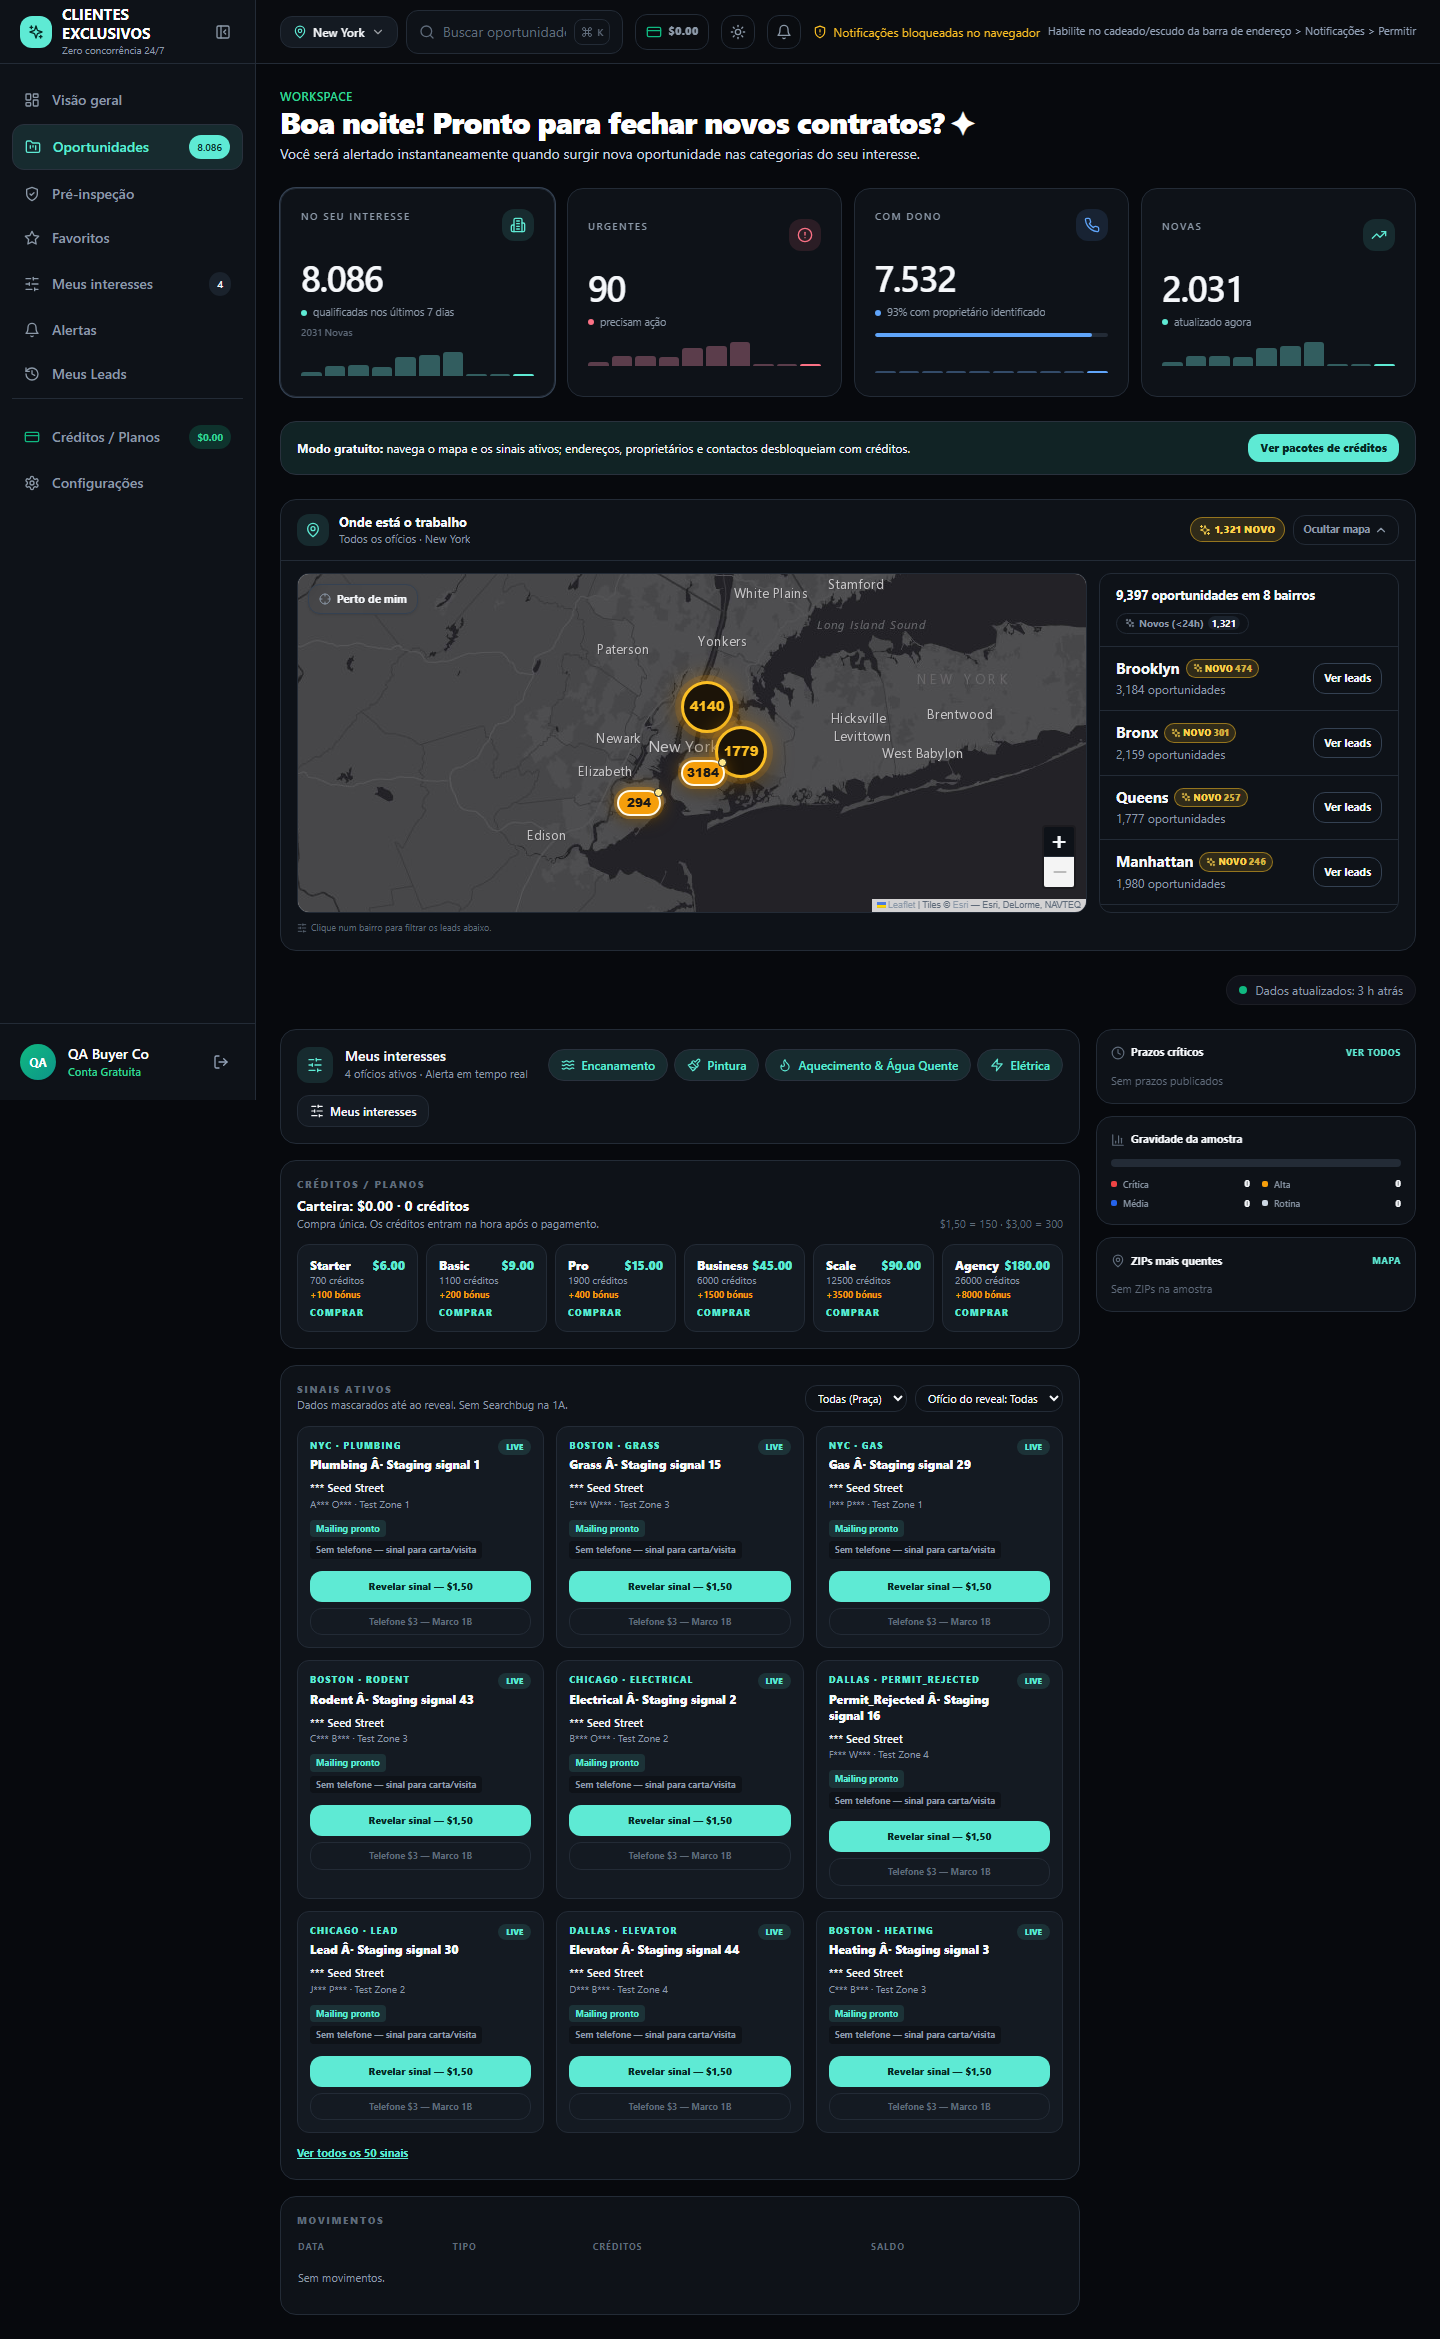
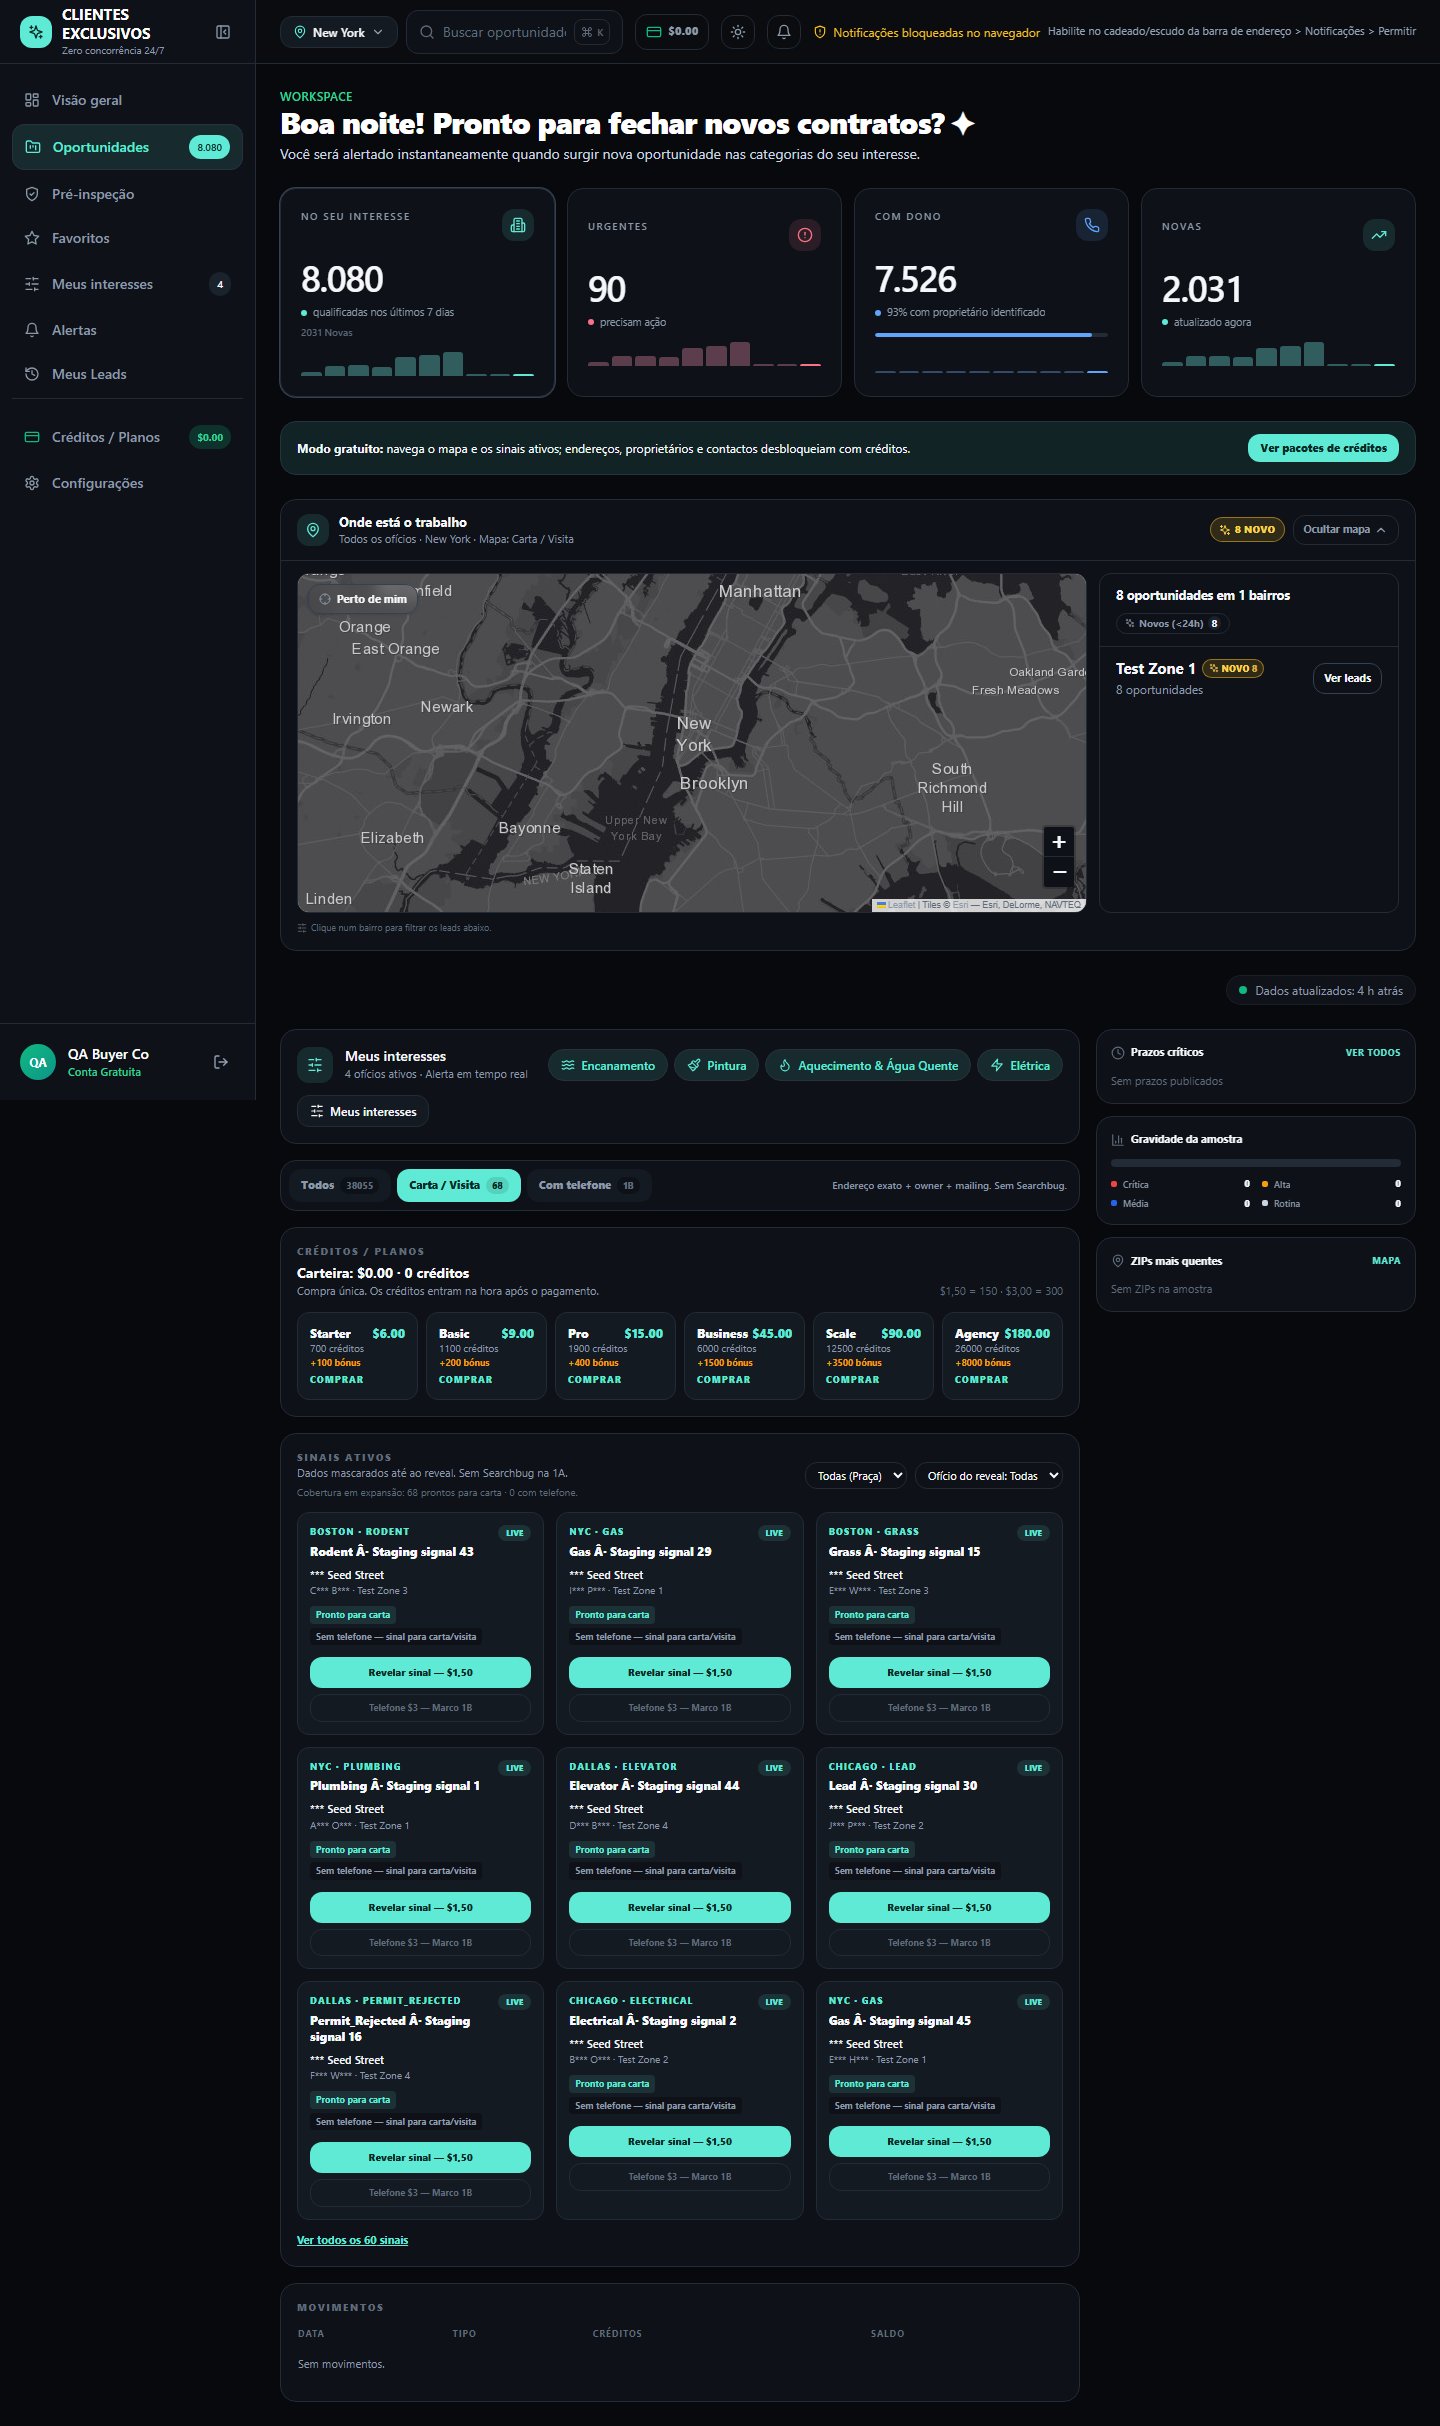
docs(marco-1a): record readiness segmentation implementation and audit

diff --git a/reports/marco-1a/README.md b/reports/marco-1a/README.md
@@ -23,6 +23,17 @@
 - Seed sintético: **50 leads** nas 4 praças + contas `qa-buyer+staging@magicleads.app` / `qa-free+staging@magicleads.app` (password `dev-demo-only`).
 - Nenhum dado de produção usado no seed; nenhuma chamada Searchbug/Telnyx.
 
+## Segmentação por prontidão (implementada)
+
+- **Flags materializadas no núcleo** (`backend/services/db.py`): `signal_ready` (owner + mailing + sinal) e `phone_ready` (telefone verificado), com backfill único (`schema_meta.readiness_v1`), triggers de escrita e índices parciais (`idx_leads_letter_ready`, `idx_leads_phone_ready`, variantes cidade/ofício).
+- **API**: `readiness=all|letter|phone` em `/api/leads/today`, `/api/leads`, `/api/leads/neighborhoods` e `/api/credits/leads`; `counts` calculado no mesmo filtro base.
+- **UI de dois níveis** no dashboard: linha primária **Todos / Carta-Visita / Com telefone**; linha secundária de origem (Reativos/Preventivos/Obras) + cidade/ofício/busca/filtros.
+- **Telefone visível mas bloqueado** no 1A (`1B`), apenas `phone_ready=1`; Carta e Telefone podem sobrepor-se no mesmo lead.
+- **Mapa segue a aba ativa** (`Mapa: Carta / Visita`) e os counts acompanham o filtro.
+- **Copy honesta**: “Pronto para carta” (sem afirmar mailing auditado) e nota de cobertura (“Cobertura em expansão: N prontos para carta · M com telefone”).
+- **Staging atual**: 68 prontos para carta, 0 com telefone; mapa NYC em Carta mostra 8 (janela de 7 dias).
+- **Seed** passa a preencher `signal_type`/`signal_status` e timestamps completos, para os triggers de prontidão e a serialização da API.
+
 ## Fluxo validado (dashboard)
 
 1. Login gratuito → `/pt/dashboard` com o layout oficial e sidebar completo.
@@ -54,7 +65,7 @@ Capturas em `reports/marco-1a/staging/`:
 ## Resultado do audit de staging
 
 ```
-RESULT ALL PASS (17/17)
+RESULT ALL PASS (20/20)
 ```
 
 - Staging gate redirects
@@ -62,6 +73,9 @@ RESULT ALL PASS (17/17)
 - Free login lands in official dashboard
 - Official sidebar keeps Opportunities
 - Freemium keeps dashboard + masked signals
+- Map follows active readiness
+- Readiness tabs visible (Todos / Carta / Telefone)
+- Phone tab locked for Milestone 1B
 - Sidebar opens credit packs in dashboard
 - Header wallet visible
 - Mock checkout created
@@ -112,7 +126,7 @@ O webhook duplicado não altera o saldo: `stripe_events` único + `credit_purcha
 - Frontend: **`https://magic-leads-staging-fabio-dev2.vercel.app`** (alias estável do preview aprovado). O preview antigo `magic-leads-frontend-final-gv537n0ha-fabio-dev2.vercel.app` está **obsoleto** e já não deve ser usado.
 - Seed: `backend/scripts/seed_staging_credits.py` executado no staging; **50 leads sintéticos** e contas de teste.
 - Proteção: **Vercel Deployment Protection** + **token gate** da app (`STAGING_GATE=1`); credenciais partilhadas fora de banda.
-- **Audit de staging: ALL PASS (17/17)** — dashboard oficial, mapa/sinais mascarados, pacotes, webhook idempotente, carteira $7.00, reveal $1,50, saldo $5.50, modal de paywall e desbloqueio automático após compra na modal.
+- **Audit de staging: ALL PASS (20/20)** — dashboard oficial, mapa/sinais mascarados, abas de prontidão, telefone bloqueado 1B, pacotes, webhook idempotente, carteira $7.00, reveal $1,50, saldo $5.50, modal de paywall e desbloqueio automático após compra na modal.
 - `CREDITS_MOCK=1` enquanto a chave `sk_test_` não está configurada; o caminho Stripe real está implementado e pronto a ativar.
 - O link e os tokens não ficam no repositório; são partilhados no canal seguro.
 

diff --git a/reports/marco-1a/LEAD-READINESS-SEGMENTATION.md b/reports/marco-1a/LEAD-READINESS-SEGMENTATION.md
@@ -2,6 +2,7 @@
 
 **Data:** 2026-11-17  
 **Âmbito:** aba Oportunidades do dashboard (freemium e assinatura legacy)  
+**Estado:** aprovado e implementado em staging (2026-11-17).  
 **Pergunta:** dividir os leads em **Todos**, **Prontos para Carta/Visita** e **Com Telefone Disponível**, com performance e layout limpos.
 
 ---
@@ -476,3 +477,32 @@ A segmentação é **simples de consultar** e **complexa de preencher**. O desen
 - **estados vazios honestos** e seed de staging populado.
 
 Isto mantém o layout limpo, evita 7 pills e prepara o 1B sem refazer a interface.
+
+---
+
+## 10. Implementação (2026-11-17)
+
+Implementado em `feat/credits-pay-as-you-go` e publicado no staging:
+
+- **`backend/services/db.py`**
+  - `signal_ready` / `phone_ready` materializados no núcleo;
+  - backfill único (`schema_meta.readiness_v1`) + triggers em `owner_name`, `owner_phone`, `phone_verified`, `mailing_address`, etc.;
+  - índices parciais `idx_leads_letter_ready`, `idx_leads_letter_city_trade`, `idx_leads_phone_ready`, `idx_leads_phone_city_trade`;
+  - `readiness` em `get_leads_feed` / `get_leads_geo_summary` e `count_leads_by_readiness`.
+- **API**
+  - `readiness=all|letter|phone` em `/api/leads/today`, `/api/leads`, `/api/leads/neighborhoods` e `/api/credits/leads`;
+  - `counts: { all, letter, phone }` no mesmo filtro base;
+  - telefone exposto apenas como `phone_ready=1` (sem elegíveis).
+- **UI**
+  - linha primária **Todos / Carta-Visita / Com telefone** (telefone com selo `1B`);
+  - linha secundária de origem/filtros;
+  - badges “Pronto para carta” e “Telefone verificado” nos cartões;
+  - estados vazios dedicados e nota de cobertura;
+  - mapa segue a aba ativa (`Mapa: Carta / Visita`).
+- **Staging**: 68 prontos para carta, 0 com telefone; audit **20/20**.
+
+### Desvios face ao parecer
+
+1. O predicado institucional na prontidão usa `institutional_owner_name_where` (SQL partilhado) em vez da função Python `is_institutional_name`. Motivo: os triggers correm em **qualquer** conexão SQLite (seed, scripts, testes) e funções custom não existem nessas conexões. A aproximação SQL cobre prefixos + tokens fortes.
+2. `signal_ready` inclui `mailing_address`; por isso um lead sem mailing devolve `signal_not_ready` no reveal (antes a ordem era `mailing_missing`). O teste de créditos foi atualizado para a nova semântica.
+3. `readiness=all` é uma vista, não um bucket exclusivo: Carta e Telefone podem sobrepor-se.
